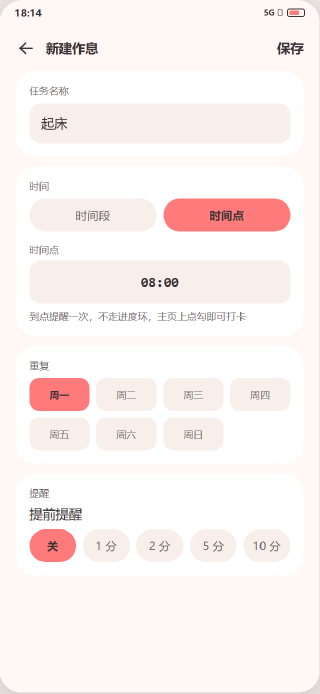
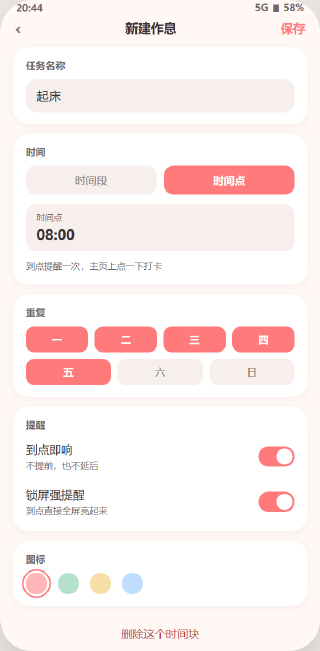
README：配图换成 Markdown 语法、按 1.7.7 重画界面示意图、补详细安装步骤

diff --git a/README.md b/README.md
@@ -13,15 +13,64 @@
 
 | 预览 | 说明 |
 | :--: | :-- |
-| <img src="docs/screens/today.png" width="230" /> | **时间块**　按作息表建块（早读 07:00–07:40、晚自习 19:00–21:00……）。到开场时间提醒「该开始了」，到结束时间提醒「该收尾了」，通知上直接有「开始 / 结束」按钮，不用进 App。做完的块变灰，超时的挂标签，一眼看出今天还剩什么。 |
-| <img src="docs/screens/editor.png" width="230" /> | **时间点**　只提醒一次，比如 8:00 起床。编辑时「时间段 / 时间点」二选一，时间点只有一个时间框；没到点按钮是灰锁，打卡直接落一条完成，不走进度环。 |
-| <img src="docs/screens/free-focus.png" width="230" /> | **自由专注**　不绑作息表的番茄钟。25 分钟专注 / 5 分钟休息，4 轮后长休息，时长在设置里改。今天做了几个番茄、累计多久，页面上直接看得到。 |
-| <img src="docs/screens/timer.png" width="230" /> | **番茄计时**　圆环 + 大数字倒计时，数字按可用宽度自动缩放，`129:00` 这种六位数不会折行。切后台、锁屏照样到点响，回来记账不重复。 |
-| <img src="docs/screens/calendar.png" width="230" /> | **日历**　按月看，某天计划块全做完才有勾。点某一天展开当天明细（时间 / 标题 / 状态）。 |
+| ![今日主页](docs/screens/today.png) | **时间块**　按作息表建块（早读 07:00–07:40、晚自习 19:00–21:00……）。到开场时间提醒「该开始了」，到结束时间提醒「该收尾了」，通知上直接有「开始 / 结束」按钮，不用进 App。做完的块变灰，超时的挂标签，一眼看出今天还剩什么。 |
+| ![时间点编辑](docs/screens/editor.png) | **时间点**　只提醒一次，比如 8:00 起床。编辑时「时间段 / 时间点」二选一，时间点只有一个时间框；没到点按钮是灰锁，打卡直接落一条完成，不走进度环。 |
+| ![自由专注](docs/screens/free-focus.png) | **自由专注**　不绑作息表的番茄钟。25 分钟专注 / 5 分钟休息，4 轮后长休息，时长在设置里改。今天做了几个番茄、累计多久，页面上直接看得到。 |
+| ![番茄计时](docs/screens/timer.png) | **番茄计时**　圆环 + 大数字倒计时，数字按可用宽度自动缩放，`129:00` 这种六位数不会折行。切后台、锁屏照样到点响，回来记账不重复。 |
+| ![日历](docs/screens/calendar.png) | **日历**　按月看，某天计划块全做完才有勾。点某一天展开当天明细（时间 / 标题 / 状态）。 |
 
 **权限自检**　精确闹钟、通知、电池优化、厂商后台开关逐条查，橙色就是没开。附小米 / 华为 / OPPO / vivo / 荣耀 / 三星的具体路径。
 
 深色模式齐全，所有文字对比度 ≥ 4.5:1。
+
+上面的图是按当前版本界面绘制的示意图，不是真机截图。
+
+## 安装
+
+只支持 Android 11 及以上。手机连不上 GitHub 的话，先在电脑下好再传到手机（微信「文件传输助手」、数据线拷进 `Download` 目录都行）。
+
+### 1　下载
+
+打开 [Releases](../../releases/latest)，在 `Assets` 里点 `FocusBlock-1.7.7.apk`，约 27 MB。不要点 `Source code`，那是源码压缩包。
+
+### 2　允许安装未知来源（只第一次需要）
+
+点开 apk 时系统会拦一下，按下面路径放行。注意要选「你用来点开 apk 的那个程序」——用浏览器下载的就选浏览器，用文件管理打开的就选文件管理。
+
+| 系统 | 路径 |
+| --- | --- |
+| Android 11 / 12 | 设置 → 应用 → 特殊应用权限 → 安装未知应用 → 选程序 → 允许 |
+| Android 13 / 14 / 15 / 16 | 设置 → 应用 → 特殊应用权限 → 安装未知应用 → 选程序 → 允许 |
+| MIUI / HyperOS | 设置 → 隐私保护 → 特殊权限 → 安装未知应用 |
+| 部分华为 / 荣耀 | 设置 → 安全 → 更多安全设置 → 安装外部来源应用 |
+
+### 3　安装
+
+点 apk → 安装 → 打开。
+
+- 提示「应用未安装」或者「与已有应用签名不一致」：手机里还有旧版本。这个包是调试签名，换包必须卸载重装，本地数据会一起清掉。
+- 提示「解析包出错」：文件没下完整，删了重下。
+- 装完图标是一个番茄，名字 `FocusBlock`。
+
+### 4　首次启动，三分钟配齐
+
+不配也能用，只是锁屏、清后台、重启之后可能不响。
+
+1. 主页是空的，点「新建时间块」建第一条作息（比如晚自习 19:00–21:00，周一到周五）。
+2. 进 `设置 → 权限自检`，橙色就是没开，逐条点进去补：通知权限、精确闹钟、电池优化豁免。
+3. 再补厂商自己的开关：
+   - 小米 / HyperOS：应用信息 → 省电策略 → 无限制；自启动打开；最近任务里下拉锁定
+   - 华为 / 荣耀：应用启动管理 → 手动管理，自启动 / 关联启动 / 后台活动三项全开
+   - OPPO / 一加：耗电管理 → 允许后台运行；自启动打开
+   - vivo：后台高耗电 → 允许；自启动打开
+   - 三星：电池 → 后台使用限制 → 把 FocusBlock 加进「永不休眠的应用」
+4. 验证一次：建一个两分钟后的「时间点」，锁屏等它响。响了就说明全套通了；没响回权限自检看哪条还是橙色。
+
+### 5　升级与卸载
+
+新版本直接覆盖安装即可，本地存档保留。卸载时数据随应用一起删掉——这版没有云同步，也没有导出，删了就没了。
+
+想自己从源码编译，见下一节。
 
 ## 构建
 
@@ -100,7 +149,7 @@
 
 五个主页面从左到右：今日主页、自由专注、番茄计时、时间块编辑、日历。深色模式是同一套布局换色。
 
-<img src="docs/screens/overview.png" width="100%" alt="五个主页面：今日主页 / 自由专注 / 番茄计时 / 时间块编辑 / 日历" />
+![五个主页面：今日主页 / 自由专注 / 番茄计时 / 时间块编辑 / 日历](docs/screens/overview.png)
 
 ## 协议
 
